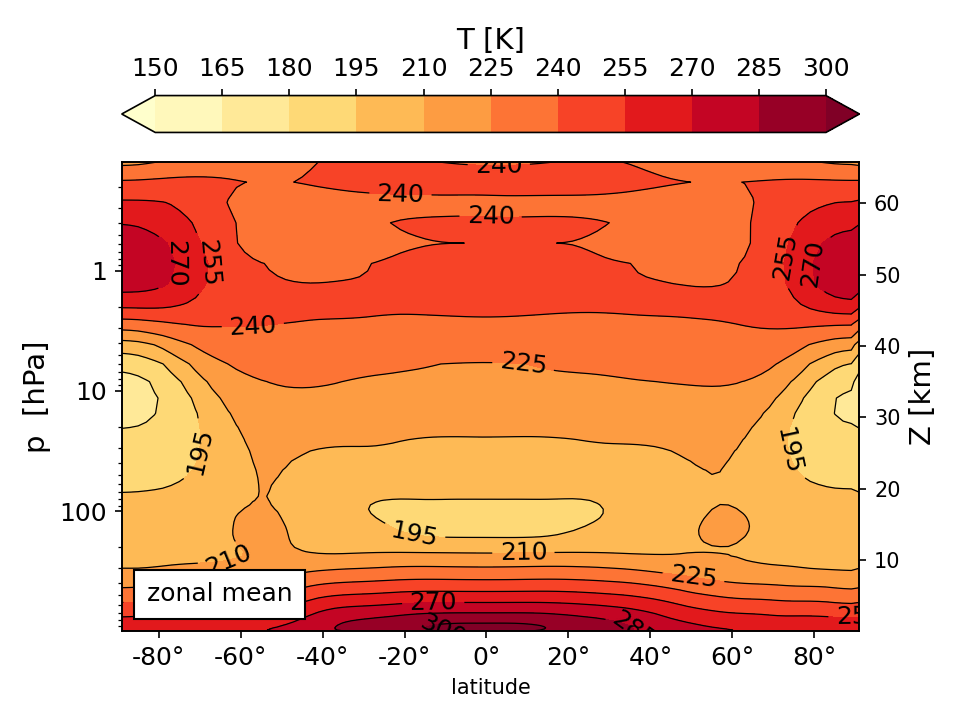
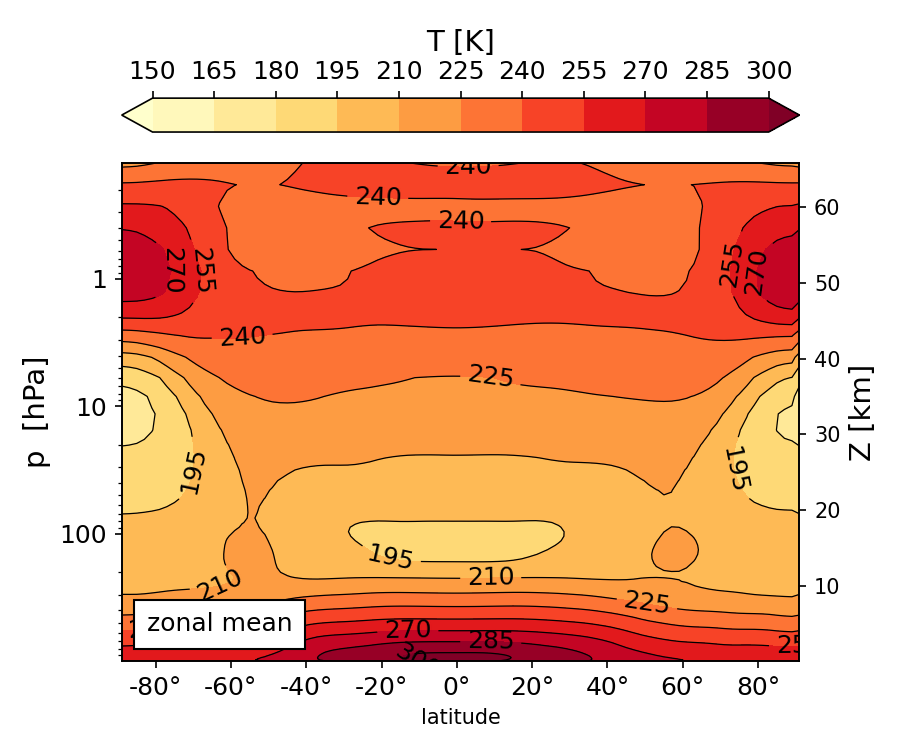
adding figures

diff --git a/CLDERA/SAI/analysis/circulation.py b/CLDERA/SAI/analysis/circulation.py
@@ -86,13 +86,13 @@ def circulation_snapshot(runf, tsnap, title, ttitle=None, savedest=None, inclTra
     
     print('\n\n=============== {}'.format(title)) 
 
-    fig = plt.figure()
+    fig = plt.figure(figsize=(6, 5))
     axu = fig.add_subplot(111)
     #axu = fig.add_subplot(221)
     #axv = fig.add_subplot(222)
     #axom = fig.add_subplot(223)
     
-    figT = plt.figure()
+    figT = plt.figure(figsize=(6,5))
     axT = figT.add_subplot(111)
 
     # ----- vertical
